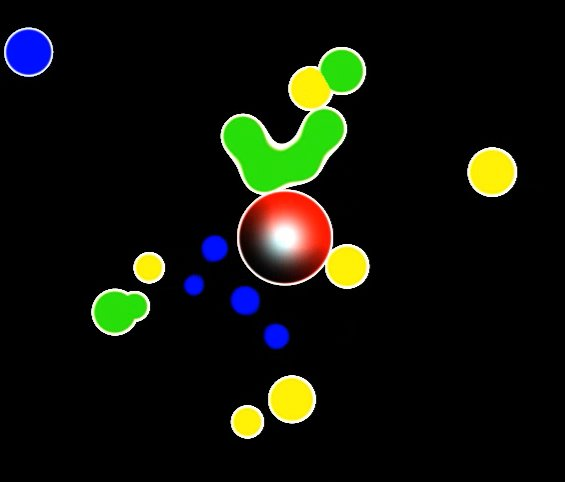
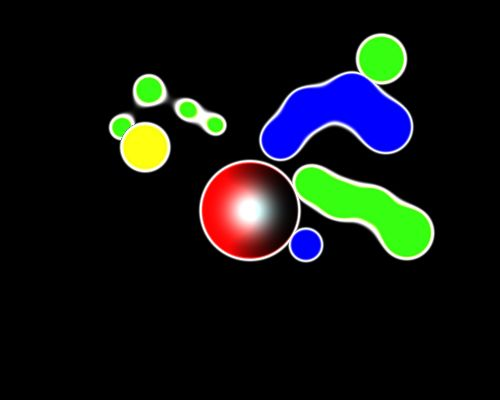
Update item design

diff --git a/index.html b/index.html
@@ -20,14 +20,14 @@
     <div class="container">
       <div class="box">
         <a href="src/mandelbrot.html">
-          <img src="assets/mandelbrot.jpg" alt="Mandelbrot">
-          <p>Mandelbrot</p>
+          <span class="item">Fractal Explorer</span>
+          <img src="assets/fractal-explorer.jpg" alt="Mandelbrot">
         </a>
       </div>
       <div class="box">
         <a href="src/blop5.html">
+          <span class="item">Kiwijam 2025 - Blop5</span>
           <img src="assets/blop5.jpg" alt="Blop5">
-          <p>Kiwijam 2025 - Blop5</p>
         </a>
       </div>
     </div>
@@ -51,11 +51,6 @@
 
   .box {
     width: 300px;
-    border: 2px solid #000000;
-    border-radius: 12px;
-    box-shadow: 0 4px 8px rgba(0, 0, 0, 0.1);
-    text-align: center;
-    background-color: #999999;
   }
 
   .summary {
@@ -88,7 +83,7 @@
 
   .box img {
     width: 100%;
-    border-radius: 10px 10px 0 0;
+    border-radius: 10px;
   }
 
   .box p {
@@ -113,6 +108,19 @@
   .body {
     max-width: 999px;
     margin: auto;
+  }
+
+  .item {
+    font-weight: 1000;
+    height: 40px;
+    font-size: 26px;
+    color: #fff;
+    margin: 20px;
+    margin-top: 200px;
+    text-align: center;
+    display: block;
+    position: absolute;
+    -webkit-text-stroke: 1px #555;
   }
 </style>
 